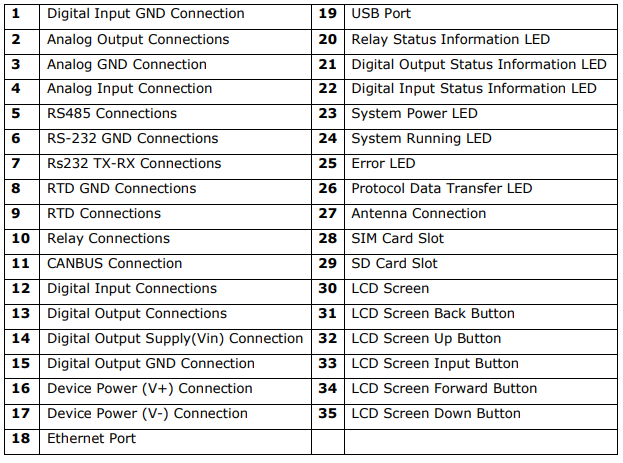
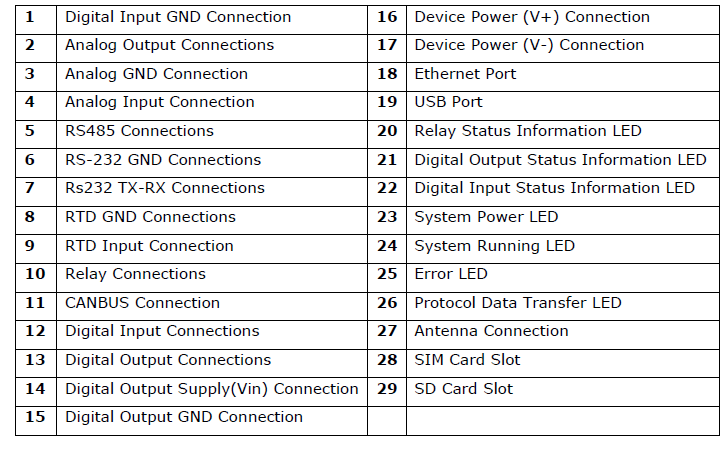
mp211 hardware manuellere kart tipleri eklendi.

diff --git a/i18n/tr/docusaurus-plugin-content-docs/current/PLC-MP211-Series-Hardware-Manual.md b/i18n/tr/docusaurus-plugin-content-docs/current/PLC-MP211-Series-Hardware-Manual.md
@@ -6,7 +6,7 @@ title: MP211 Serisi Donanım Kılavuzu
 
 [MP211 Hardware Manual](https://www.mikrodev.com/wp-content/uploads/2023/03/MIKRODEV_HM_MP211.pdf)
 
-### Fiziksel Arayüzler
+### GA0 Kart Tipi Fiziksel Arayüzler
 
 <center>
 
@@ -16,7 +16,49 @@ title: MP211 Serisi Donanım Kılavuzu
 
 <center>
 
-![plc-hardware-11](/img/plc-hardware-11.png)
+![plc-hardware-41](/img/plc-hardware-41.png)
+
+</center>
+
+### GA1 Kart Tipi Fiziksel Arayüzler
+
+<center>
+
+![plc-hardware-35](/img/plc-hardware-35.png)
+
+</center>
+
+<center>
+
+![plc-hardware-42](/img/plc-hardware-42.png)
+
+</center>
+
+### GA3 Kart Tipi Fiziksel Arayüzler
+
+<center>
+
+![plc-hardware-37](/img/plc-hardware-37.png)
+
+</center>
+
+<center>
+
+![plc-hardware-43](/img/plc-hardware-43.png)
+
+</center>
+
+### GA4 Kart Tipi Fiziksel Arayüzler
+
+<center>
+
+![plc-hardware-39](/img/plc-hardware-39.png)
+
+</center>
+
+<center>
+
+![plc-hardware-44](/img/plc-hardware-44.png)
 
 </center>
 
@@ -24,11 +66,9 @@ title: MP211 Serisi Donanım Kılavuzu
 
 <center>
 
-![plc-hardware-13](/img/plc-hardware-13.png)
+![plc-hardware-45](/img/plc-hardware-45.png)
 
 </center>
-
-Not: Bazı modellerde farklılık gösterebilir
 
 ## Kurulum Bilgileri
 
@@ -66,7 +106,7 @@ konektörlerin karşılık geldiği anlamına gelir.
 
 <center>
 
-![plc-hardware-16](/img/plc-hardware-16.png)
+![plc-hardware-46](/img/plc-hardware-46.png)
 
 </center>
 
@@ -74,7 +114,7 @@ konektörlerin karşılık geldiği anlamına gelir.
 
 <center>
 
-![plc-hardware-17](/img/plc-hardware-17.png)
+![plc-hardware-47](/img/plc-hardware-47.png)
 
 </center>
 
@@ -82,7 +122,7 @@ konektörlerin karşılık geldiği anlamına gelir.
 
 <center>
 
-![plc-hardware-18](/img/plc-hardware-18.png)
+![plc-hardware-48](/img/plc-hardware-48.png)
 
 </center>
 
@@ -90,7 +130,7 @@ konektörlerin karşılık geldiği anlamına gelir.
 
 <center>
 
-![plc-hardware-19](/img/plc-hardware-19.png)
+![plc-hardware-49](/img/plc-hardware-49.png)
 
 </center>
 
@@ -98,7 +138,7 @@ konektörlerin karşılık geldiği anlamına gelir.
 
 <center>
 
-![plc-hardware-20](/img/plc-hardware-20.png)
+![plc-hardware-50](/img/plc-hardware-50.png)
 
 </center>
 
@@ -106,7 +146,7 @@ konektörlerin karşılık geldiği anlamına gelir.
 
 <center>
 
-![plc-hardware-21](/img/plc-hardware-21.png)
+![plc-hardware-51](/img/plc-hardware-51.png)
 
 </center>
 
@@ -114,7 +154,7 @@ konektörlerin karşılık geldiği anlamına gelir.
 
 <center>
 
-![plc-hardware-22](/img/plc-hardware-22.png)
+![plc-hardware-52](/img/plc-hardware-52.png)
 
 </center>
 
@@ -122,7 +162,7 @@ konektörlerin karşılık geldiği anlamına gelir.
 
 <center>
 
-![plc-hardware-23](/img/plc-hardware-23.png)
+![plc-hardware-53](/img/plc-hardware-53.png)
 
 </center>
 
@@ -130,6 +170,6 @@ konektörlerin karşılık geldiği anlamına gelir.
 
 <center>
 
-![plc-hardware-24](/img/plc-hardware-24.png)
+![plc-hardware-54](/img/plc-hardware-54.png)
 
 </center>

diff --git a/docs/PLC-MP211-Series-Hardware-Manual.md b/docs/PLC-MP211-Series-Hardware-Manual.md
@@ -6,7 +6,7 @@ title: MP211 Series Hardware Manual
 
 [MP211 Hardware Manual](https://www.mikrodev.com/wp-content/uploads/2023/03/MIKRODEV_HM_MP211_en.pdf)
 
-### Physical Interfaces
+### GA0 Board Type Physical Interfaces
 
 <center>
 
@@ -20,6 +20,48 @@ title: MP211 Series Hardware Manual
 
 </center>
 
+### GA1 Board Type Physical Interfaces
+
+<center>
+
+![plc-hardware-35](/img/plc-hardware-35.png)
+
+</center>
+
+<center>
+
+![plc-hardware-36](/img/plc-hardware-36.png)
+
+</center>
+
+### GA3 Board Type Physical Interfaces
+
+<center>
+
+![plc-hardware-37](/img/plc-hardware-37.png)
+
+</center>
+
+<center>
+
+![plc-hardware-38](/img/plc-hardware-38.png)
+
+</center>
+
+### GA4 Board Type Physical Interfaces
+
+<center>
+
+![plc-hardware-39](/img/plc-hardware-39.png)
+
+</center>
+
+<center>
+
+![plc-hardware-40](/img/plc-hardware-40.png)
+
+</center>
+
 ### General Device Specifications
 
 <center>
@@ -27,8 +69,6 @@ title: MP211 Series Hardware Manual
 ![plc-hardware-13](/img/plc-hardware-13.png)
 
 </center>
-
-Note: May differ on some models
 
 ## Installation Information
 
